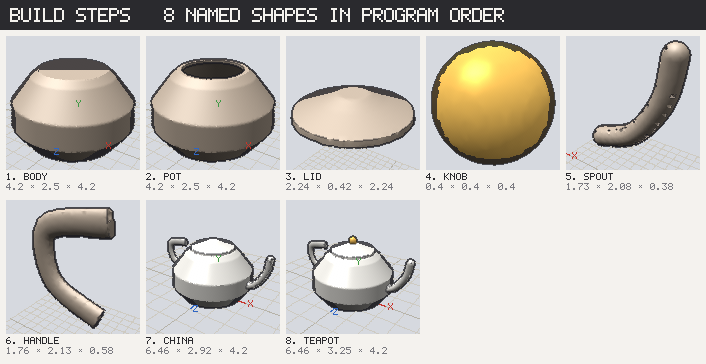
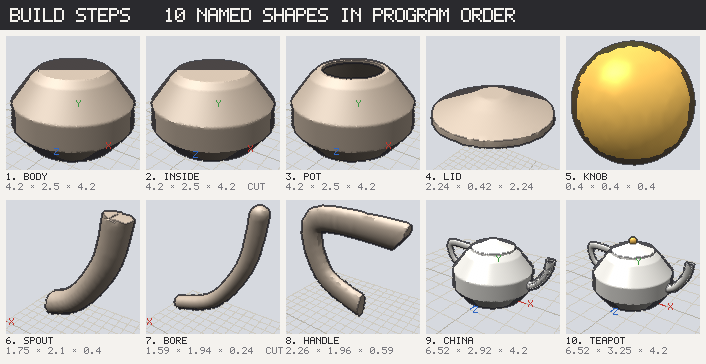
Open the teapot's spout and join its handle to the pot at both ends
The blind legibility check found two faults in the teapot example that
were the model's, not the renderer's. The spout was a tube minus a
thinner tube on the same path, and tube()'s round caps sealed the bore
at the tip; joined to the pot afterwards, the pot's wall sealed its
other end, so the report counted the bore as a cavity. The handle's top
end stopped short of the shoulder, a free flat end the reader took for
an open tube.

Now the spout's tube is cut flat at its tip and the bore is cut from
spout and pot together, so its round end reaches past the flat tip and
it runs through the pot's wall. The spout and the handle both start
inside the body and are cut back to its inner wall (the body shrunk by
the wall with offset()), so neither pokes into the pot, and the handle's
path ends in the shoulder. The spout is 0.2 with a 0.12 bore rather than
0.19 and 0.11: the 0.19 tube left seven edges shared by three triangles
along its side at the default grid of 128, and 0.2 reads watertight as
the old teapot did while keeping the 0.08 wall the docs measure.

Three asserts say so: the teapot is one piece; with the handle cut
through its middle it is still one, which fails (two pieces) with the
old handle; and a rod down the bore and out past the tip touches
nothing, which fails at the tip with round caps and at the pot's wall
with the bore cut from the spout alone. The report's cavities row goes
from two (the bore, and the pot's inside, closed by the lid) to none.
[…]

diff --git a/docs/roadmap.md b/docs/roadmap.md
@@ -423,7 +423,7 @@ Shading, reflections, path tracing, the mesh BVH and worker threads belonged to 
 
 **Why.** design.md says the mesher's one vertex per cell "is closed and manifold for any field". It is not. Dual contouring with one vertex per cell is non-manifold at every ambiguous marching-cubes configuration (Schaefer, Ju and Warren, 'Manifold Dual Contouring', IEEE TVCG 13(3), 2007, §III).
 
-Measured with the repo's own surfaceNets at each program's grid, 45 of 68 programs (dogfood and examples) have edges shared by more than two triangles, or pinched vertices: 2369 such edges and 276 such vertices in all. The rope has 572 of these edges, the tower 134 and round 4's trophy 121. Round 6's terrace has 17 edges and 107 vertices. None has a hole, so every edge the Watertight row has ever called open is one of these. The teapot reads watertight "yes" with 18 pinched vertices, because the row counts edges only. 3MF requires every edge of a model to be shared by exactly two triangles (3MF Core, mesh section: MUST), so the 3MF of most dogfood models breaks the spec.
+Measured with the repo's own surfaceNets at each program's grid, 45 of 68 programs (dogfood and examples) have edges shared by more than two triangles, or pinched vertices: 2369 such edges and 276 such vertices in all. The rope has 572 of these edges, the tower 134 and round 4's trophy 121. Round 6's terrace has 17 edges and 107 vertices. None has a hole, so every edge the Watertight row has ever called open is one of these. The teapot reads watertight "yes" with 18 pinched vertices (24 since its spout was opened and its handle joined), because the row counts edges only. 3MF requires every edge of a model to be shared by exactly two triangles (3MF Core, mesh section: MUST), so the 3MF of most dogfood models breaks the spec.
 
 It is also the friction the record repeats most. 38 to 40 of 43 reports mention watertightness or edges, and about 17 rank them among their top three asks. Several give the cost:
 - "the whole cost of this exercise" (round 5's bicycle);
@@ -463,7 +463,7 @@ A scratch prototype on Aixle's lattice, reusing its QEF, measured the topology:
 **Prototype first.**
 - **The weld.** The prototype's rope has two tunnel vertices at one point. After weldIndices, which watertightReport, the 3MF writer and the decimator all call, the rope has 2 non-manifold edges. Patch and tunnel vertices must never share a position, or welding must stop going by position.
 - **Thin rods.** Rods of 1.1 and 1.3 cells, held together today by pinches, become 29 and 9 pieces; from 1.6 cells both meshers give one piece. Count how many parts this hits at the grids agents use (none among the 68 measured), and word the thin warning for it.
-- **Cavities and specks.** The teapot's spout bore becomes a cavity shell of its own, and round 4's trophy gains a 12-triangle speck. Read the cavity and void rows on every program.
+- **Cavities and specks.** The teapot's spout bore, sealed at both ends when this was measured (it has since been opened through the tip and the pot's wall), became a cavity shell of its own, and round 4's trophy gains a 12-triangle speck. Read the cavity and void rows on every program.
 - **The contacts row.** Log the decided places on the dogfood set. Check that the clusters land where the reports say: the trophy's rim lettering, the mixer's knuckle at 0.4 of a cell, the door's leaf at 1.4 cells and the market's lantern. Measure false alarms: the teapot's two-patch cells are a thin spout wall, not a contact.
 - **Tests.** Unit-test every ambiguous configuration and adjacent tunnels; Zint et al. merge up to twelve vertices around one point.
 - **Timing.** Time a table-driven core against today's core. The prototype was compared with a full extraction including normals and materials, so it is not yet shown to be free.

diff --git a/docs/language.md b/docs/language.md
@@ -522,7 +522,12 @@ otherwise), each laid flat (its x along x, its y along -z), so
 second dimension runs along z. Both path
 functions take `smooth=n` to curve the path through the points; a handle is
 four points and `smooth=6`. A hollow spout is one tube minus a thinner one
-on the same path. `taper=` scales the end relative to the start (a horn,
+on the same path, but round ends seal the bore at the tip, and a bore cut
+from the spout alone stops at the pot's wall: cut the outer tube flat
+(`cap="flat"`), so the thinner one's round end reaches past it, and cut
+the bore after the spout is joined to the pot (`examples/teapot.aix`; a
+thinner rod down the bore and out past the tip,
+`assert void(rod, teapot) == 1`, promises it is open). `taper=` scales the end relative to the start (a horn,
 a tapering tail) and `sweep` also takes `twist=` degrees over the whole
 path, so three circles swept along `helix(r, h, turns)` with
 `twist = 360 * turns` is a rope. `helix()`, `arc(r, from, to, axis="y")` and

diff --git a/docs/design.md b/docs/design.md
@@ -1163,6 +1163,13 @@ torch handle as black iron, the medal's brass letters as gold, and the
 straw below the drink was not seen at all. One shared misreading is the
 language's, not the renderer's: both show the medal's lower legend
 mirror-reversed, because that is what `text()` builds on a negative arc.
+Two of the teapot's answers were about its model, not the renderer: its
+handle stopped short of the pot, so the free, flat end the reader took
+for an open tube was there to be seen, and its spout, which the reader
+saw closed at the tip, was closed: the bore was sealed at both ends. The
+example now joins the handle to the body at both ends and cuts the bore
+through the pot's wall and out of a tip cut flat, with asserts that say
+so.
 
 The reader trusted the new render in seven pairs of eight: the metals
 read as metal, the glass as clear and the drink in it as translucent,
